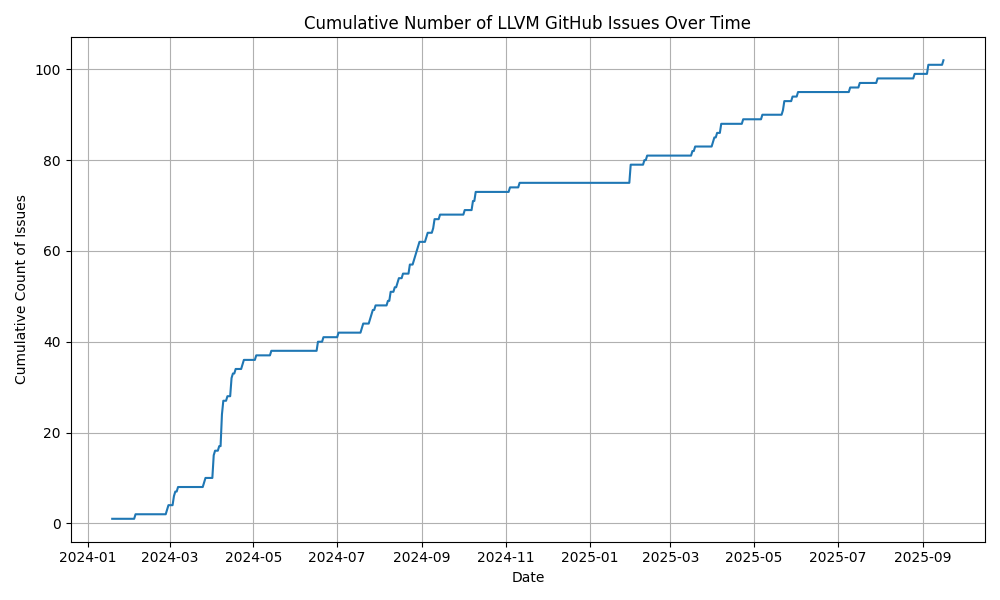
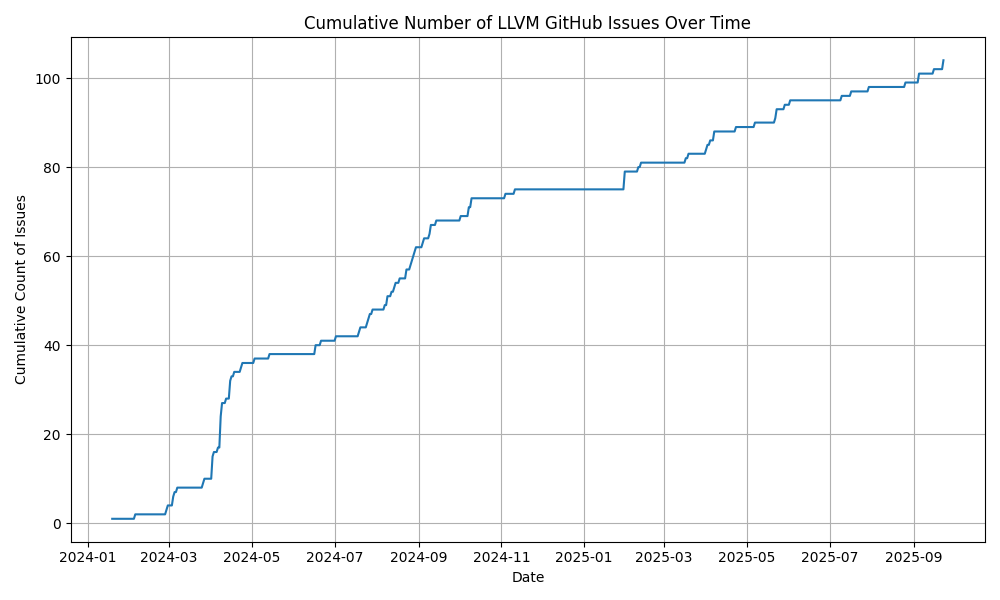
CI: Update README

diff --git a/README.md b/README.md
@@ -364,6 +364,8 @@ More info can be found in [/cvise-passes](/cvise-passes/README)
 1. [155512: [SLPVectorizer] Assertion `(I->use_empty() || all_of(I->uses(), [&](Use &U) { return isDeleted( cast<Instruction>(U.getUser())); })) && "trying to erase instruction with users."' failed.](https://github.com/llvm/llvm-project/issues/155512)
 1. [157177: [RISC-V] Assertion `isSimple() && "Expected a SimpleValueType!"' failed.](https://github.com/llvm/llvm-project/issues/157177)
 1. [157184: Assertion `OldMaskParam && "no mask param to fold the vl param into"' failed](https://github.com/llvm/llvm-project/issues/157184)
+1. [160393: [RISC-V] Assertion `VT.getVectorElementType() == N1VT.getVectorElementType() && "Extract subvector VTs must have the same element type!"' failed.](https://github.com/llvm/llvm-project/issues/160393)
+1. [160396: [LoopVectorize] Assertion `OpType == Other.OpType && "OpType must match"' failed.](https://github.com/llvm/llvm-project/issues/160396)
 
 
 ### Bugs filed over time:
